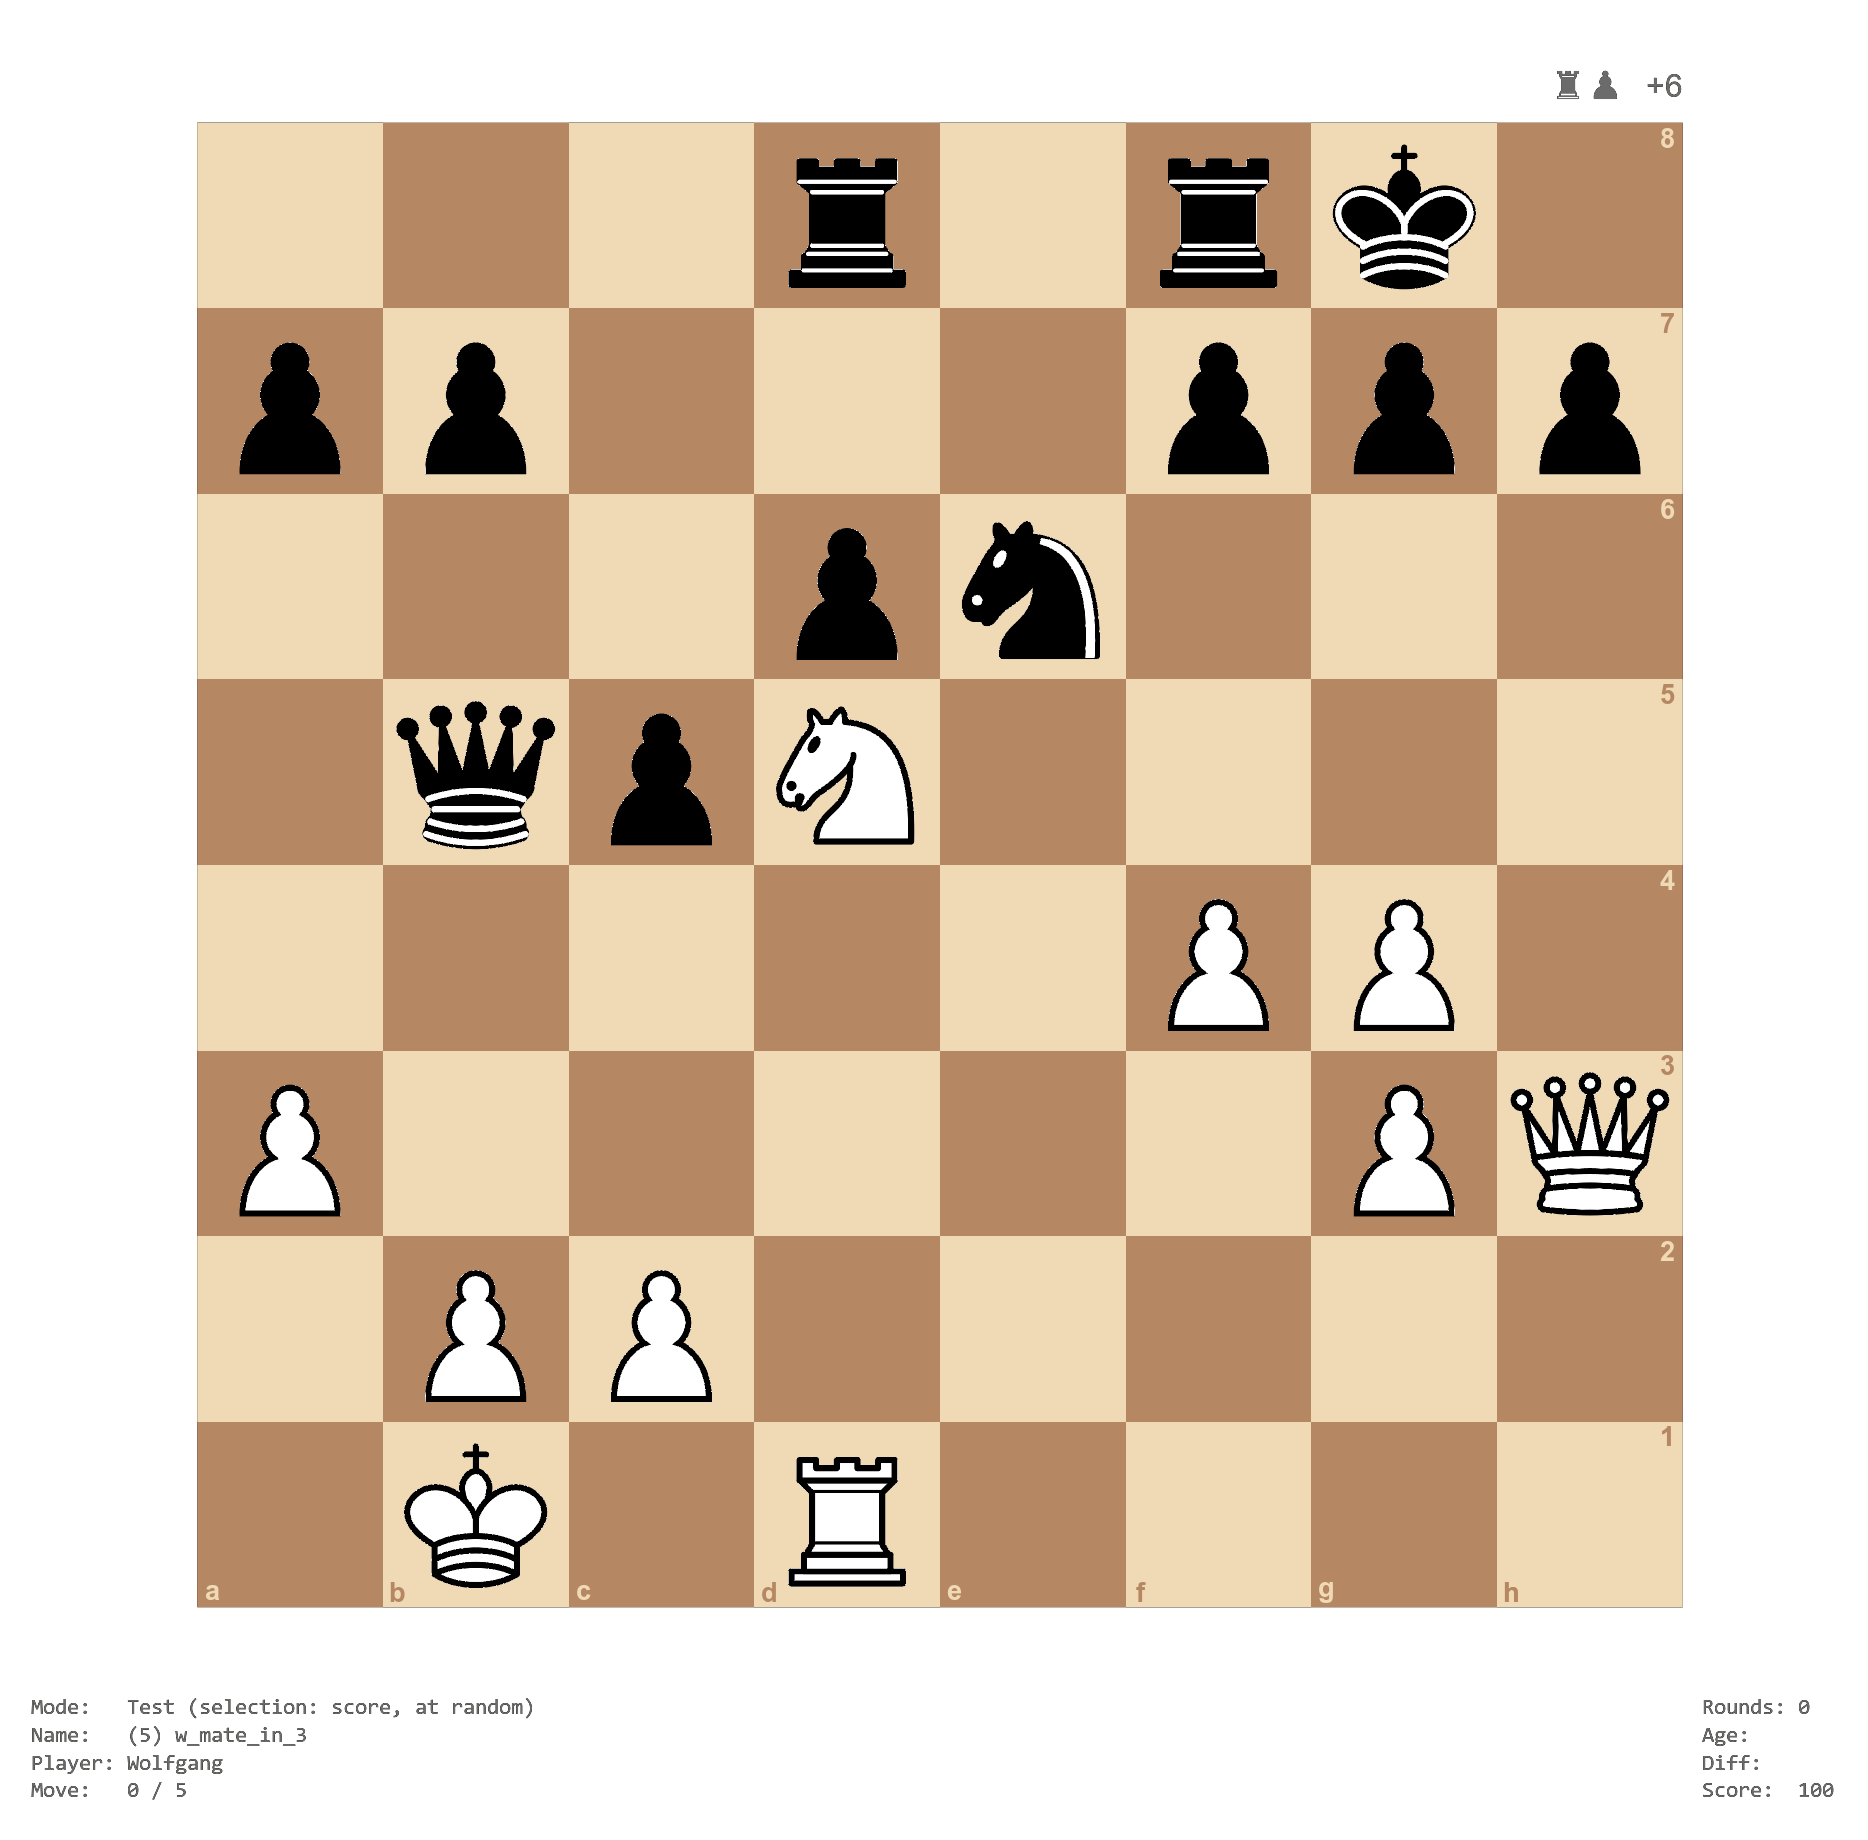
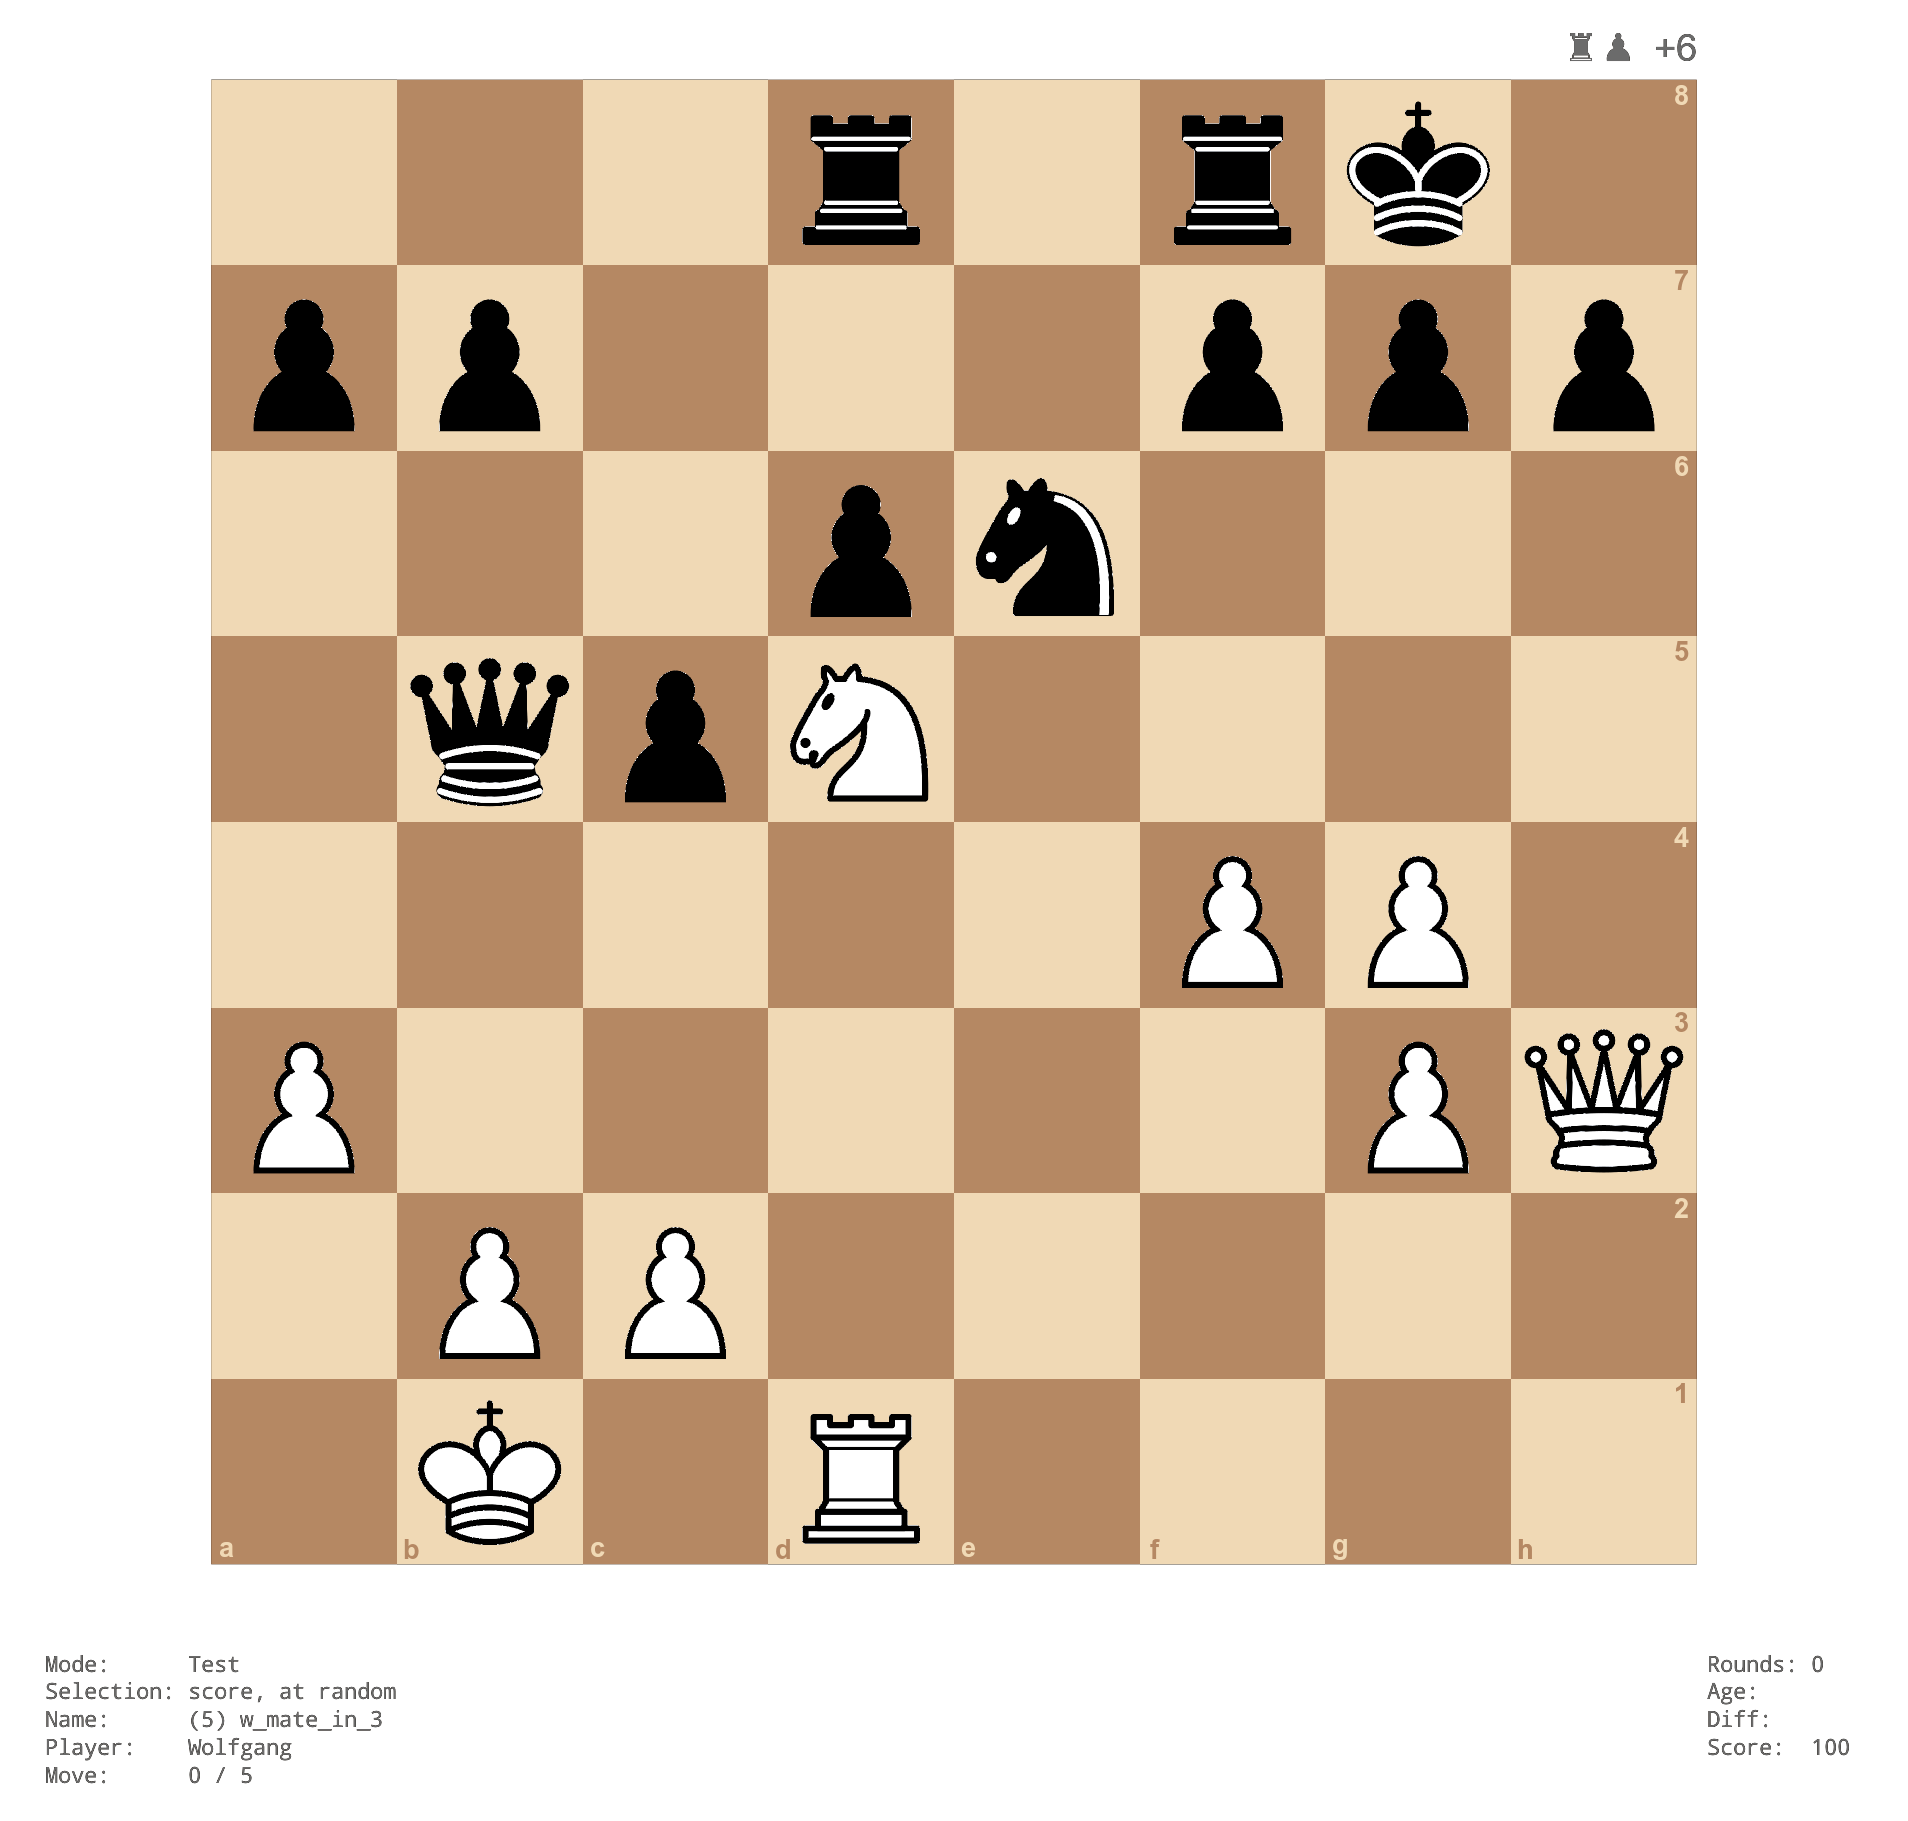
Account for multiple endmoves in searches.

diff --git a/docs/news/index.html b/docs/news/index.html
@@ -29,7 +29,7 @@
       </button>
       <span class="navbar-brand">
         <a class="navbar-link" href="../index.html">chesstrainer</a>
-        <span class="version label label-default" data-toggle="tooltip" data-placement="bottom" title="">0.9-189</span>
+        <span class="version label label-default" data-toggle="tooltip" data-placement="bottom" title="">0.9-190</span>
       </span>
     </div>
 
@@ -79,7 +79,7 @@
     </div>
 
     <div class="section level2">
-<h2 class="page-header" data-toc-text="0.9-189" id="chesstrainer-09-189-2026-08-14">chesstrainer 0.9-189 (2026-08-14)<a class="anchor" aria-label="anchor" href="#chesstrainer-09-189-2026-08-14"></a></h2>
+<h2 class="page-header" data-toc-text="0.9-190" id="chesstrainer-09-190-2026-08-17">chesstrainer 0.9-190 (2026-08-17)<a class="anchor" aria-label="anchor" href="#chesstrainer-09-190-2026-08-17"></a></h2>
 <ul><li>lots of improvements since the initial version (way too many to list here)</li></ul></div>
     <div class="section level2">
 <h2 class="page-header" data-toc-text="0.1-0" id="chesstrainer-01-0-2024-12-17">chesstrainer 0.1-0 (2024-12-17)<a class="anchor" aria-label="anchor" href="#chesstrainer-01-0-2024-12-17"></a></h2>

diff --git a/docs/authors.html b/docs/authors.html
@@ -29,7 +29,7 @@
       </button>
       <span class="navbar-brand">
         <a class="navbar-link" href="index.html">chesstrainer</a>
-        <span class="version label label-default" data-toggle="tooltip" data-placement="bottom" title="">0.9-189</span>
+        <span class="version label label-default" data-toggle="tooltip" data-placement="bottom" title="">0.9-190</span>
       </span>
     </div>
 
@@ -94,13 +94,13 @@
 
     <p>Viechtbauer W (2026).
 <em>chesstrainer: Chess Training Program</em>.
-R package version 0.9-189, <a href="https://github.com/wviechtb/chesstrainer" class="external-link">https://github.com/wviechtb/chesstrainer</a>.
+R package version 0.9-190, <a href="https://github.com/wviechtb/chesstrainer" class="external-link">https://github.com/wviechtb/chesstrainer</a>.
 </p>
     <pre>@Manual{,
   title = {chesstrainer: Chess Training Program},
   author = {Wolfgang Viechtbauer},
   year = {2026},
-  note = {R package version 0.9-189},
+  note = {R package version 0.9-190},
   url = {https://github.com/wviechtb/chesstrainer},
 }</pre>
 

diff --git a/docs/reference/chesstrainer-package.html b/docs/reference/chesstrainer-package.html
@@ -31,7 +31,7 @@ The main purpose of the chesstrainer package is to create sequences of moves (li
       </button>
       <span class="navbar-brand">
         <a class="navbar-link" href="../index.html">chesstrainer</a>
-        <span class="version label label-default" data-toggle="tooltip" data-placement="bottom" title="">0.9-189</span>
+        <span class="version label label-default" data-toggle="tooltip" data-placement="bottom" title="">0.9-190</span>
       </span>
     </div>
 

diff --git a/docs/404.html b/docs/404.html
@@ -52,7 +52,7 @@
       </button>
       <span class="navbar-brand">
         <a class="navbar-link" href="https://wviechtb.github.io/chesstrainer/index.html">chesstrainer</a>
-        <span class="version label label-default" data-toggle="tooltip" data-placement="bottom" title="">0.9-189</span>
+        <span class="version label label-default" data-toggle="tooltip" data-placement="bottom" title="">0.9-190</span>
       </span>
     </div>
 

diff --git a/docs/reference/cleanup.html b/docs/reference/cleanup.html
@@ -29,7 +29,7 @@
       </button>
       <span class="navbar-brand">
         <a class="navbar-link" href="../index.html">chesstrainer</a>
-        <span class="version label label-default" data-toggle="tooltip" data-placement="bottom" title="">0.9-189</span>
+        <span class="version label label-default" data-toggle="tooltip" data-placement="bottom" title="">0.9-190</span>
       </span>
     </div>
 

diff --git a/docs/reference/index.html b/docs/reference/index.html
@@ -29,7 +29,7 @@
       </button>
       <span class="navbar-brand">
         <a class="navbar-link" href="../index.html">chesstrainer</a>
-        <span class="version label label-default" data-toggle="tooltip" data-placement="bottom" title="">0.9-189</span>
+        <span class="version label label-default" data-toggle="tooltip" data-placement="bottom" title="">0.9-190</span>
       </span>
     </div>
 

diff --git a/docs/reference/install_mpg123.html b/docs/reference/install_mpg123.html
@@ -29,7 +29,7 @@
       </button>
       <span class="navbar-brand">
         <a class="navbar-link" href="../index.html">chesstrainer</a>
-        <span class="version label label-default" data-toggle="tooltip" data-placement="bottom" title="">0.9-189</span>
+        <span class="version label label-default" data-toggle="tooltip" data-placement="bottom" title="">0.9-190</span>
       </span>
     </div>
 

diff --git a/docs/reference/install_stockfish.html b/docs/reference/install_stockfish.html
@@ -29,7 +29,7 @@
       </button>
       <span class="navbar-brand">
         <a class="navbar-link" href="../index.html">chesstrainer</a>
-        <span class="version label label-default" data-toggle="tooltip" data-placement="bottom" title="">0.9-189</span>
+        <span class="version label label-default" data-toggle="tooltip" data-placement="bottom" title="">0.9-190</span>
       </span>
     </div>
 

diff --git a/docs/reference/play.html b/docs/reference/play.html
@@ -29,7 +29,7 @@
       </button>
       <span class="navbar-brand">
         <a class="navbar-link" href="../index.html">chesstrainer</a>
-        <span class="version label label-default" data-toggle="tooltip" data-placement="bottom" title="">0.9-189</span>
+        <span class="version label label-default" data-toggle="tooltip" data-placement="bottom" title="">0.9-190</span>
       </span>
     </div>
 

diff --git a/docs/reference/playsound.html b/docs/reference/playsound.html
@@ -29,7 +29,7 @@
       </button>
       <span class="navbar-brand">
         <a class="navbar-link" href="../index.html">chesstrainer</a>
-        <span class="version label label-default" data-toggle="tooltip" data-placement="bottom" title="">0.9-189</span>
+        <span class="version label label-default" data-toggle="tooltip" data-placement="bottom" title="">0.9-190</span>
       </span>
     </div>
 

diff --git a/docs/index.html b/docs/index.html
@@ -53,7 +53,7 @@
       </button>
       <span class="navbar-brand">
         <a class="navbar-link" href="index.html">chesstrainer</a>
-        <span class="version label label-default" data-toggle="tooltip" data-placement="bottom" title="">0.9-189</span>
+        <span class="version label label-default" data-toggle="tooltip" data-placement="bottom" title="">0.9-190</span>
       </span>
     </div>
 

diff --git a/NEWS.md b/NEWS.md
@@ -1,4 +1,4 @@
-# chesstrainer 0.9-189 (2026-08-14)
+# chesstrainer 0.9-190 (2026-08-17)
 
 - lots of improvements since the initial version (way too many to list here)
 
